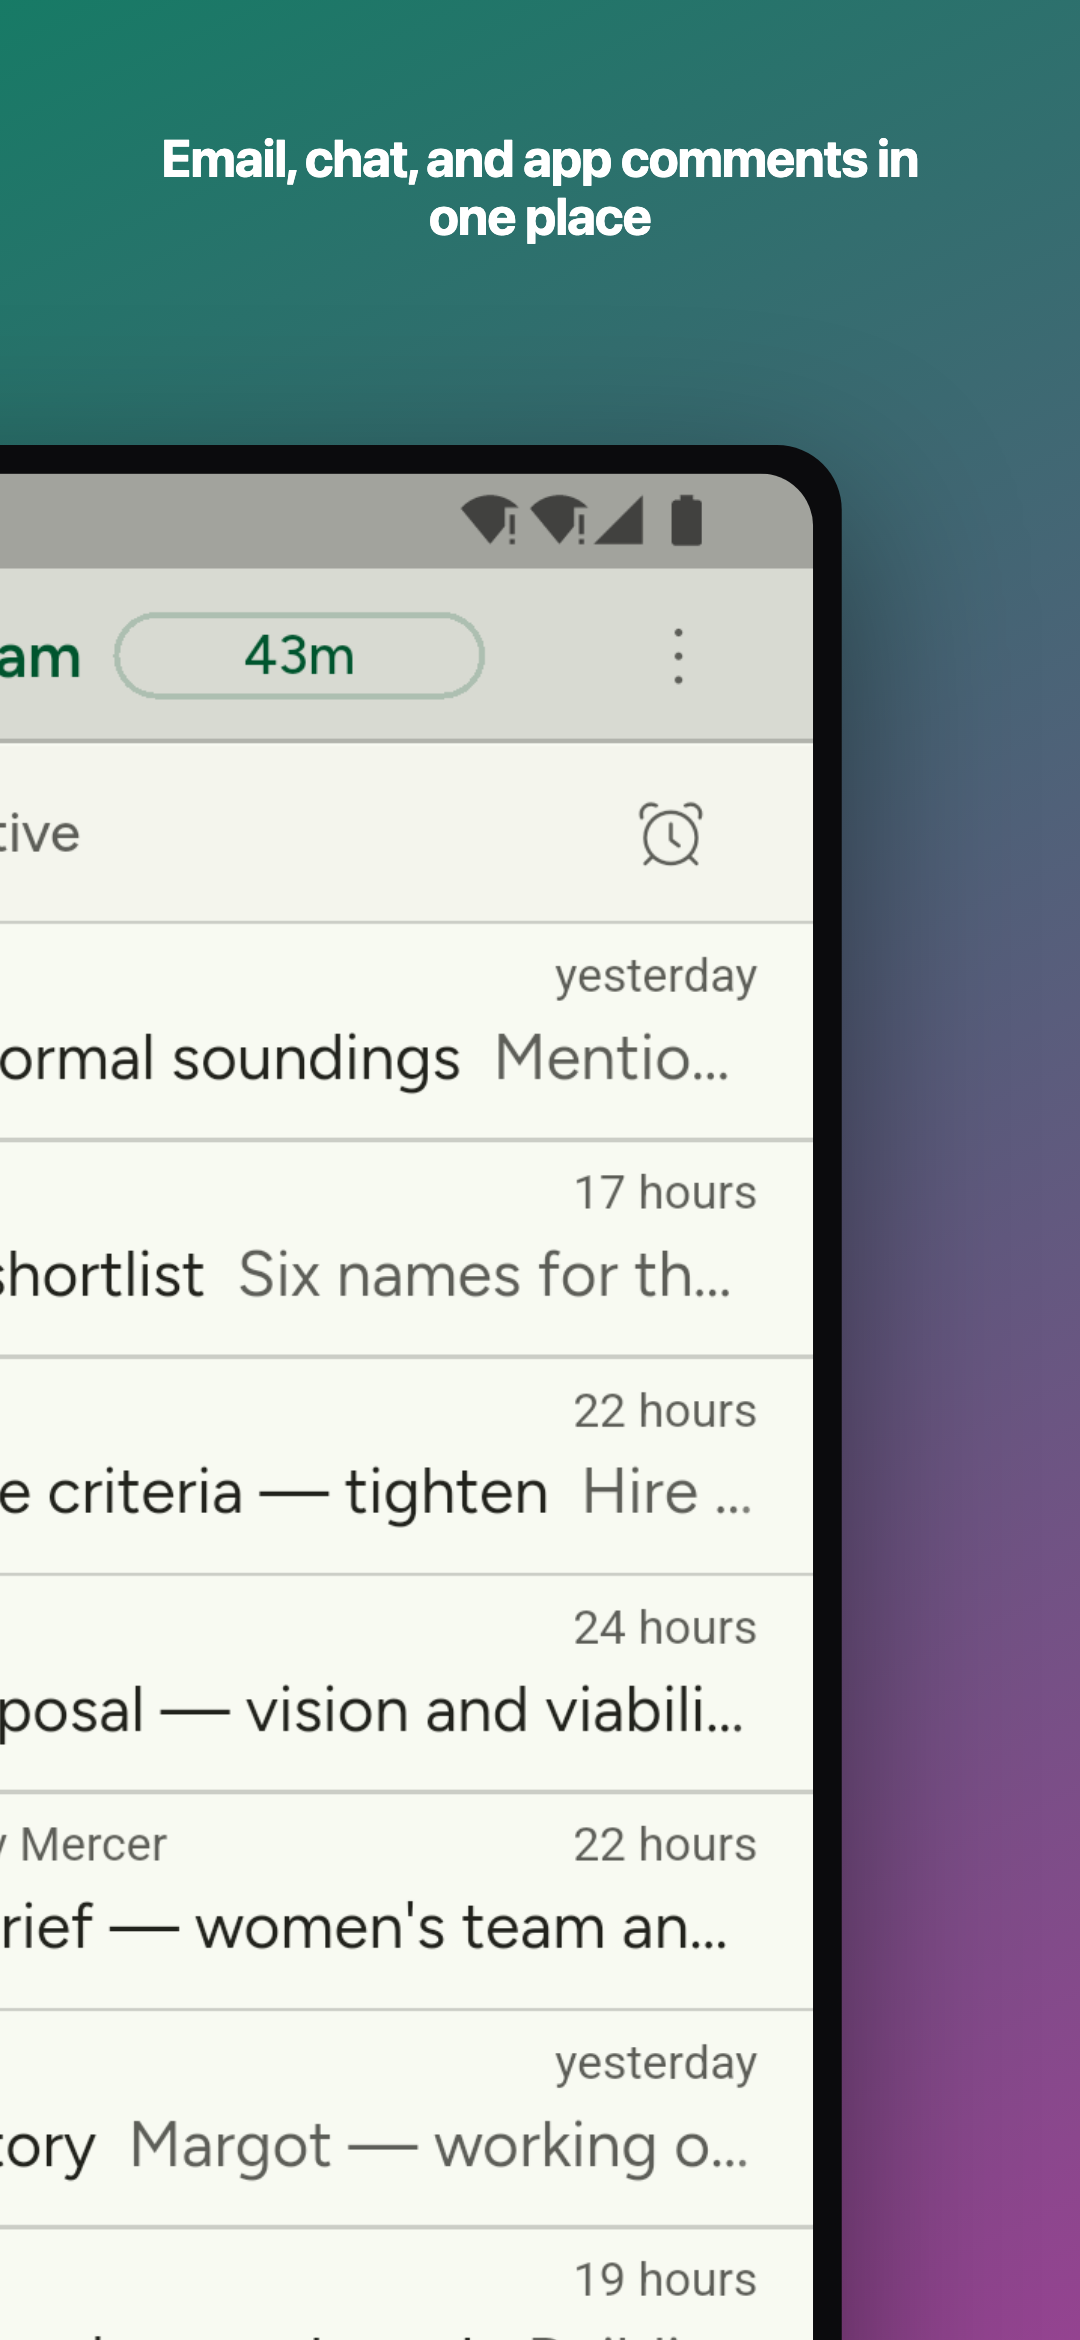
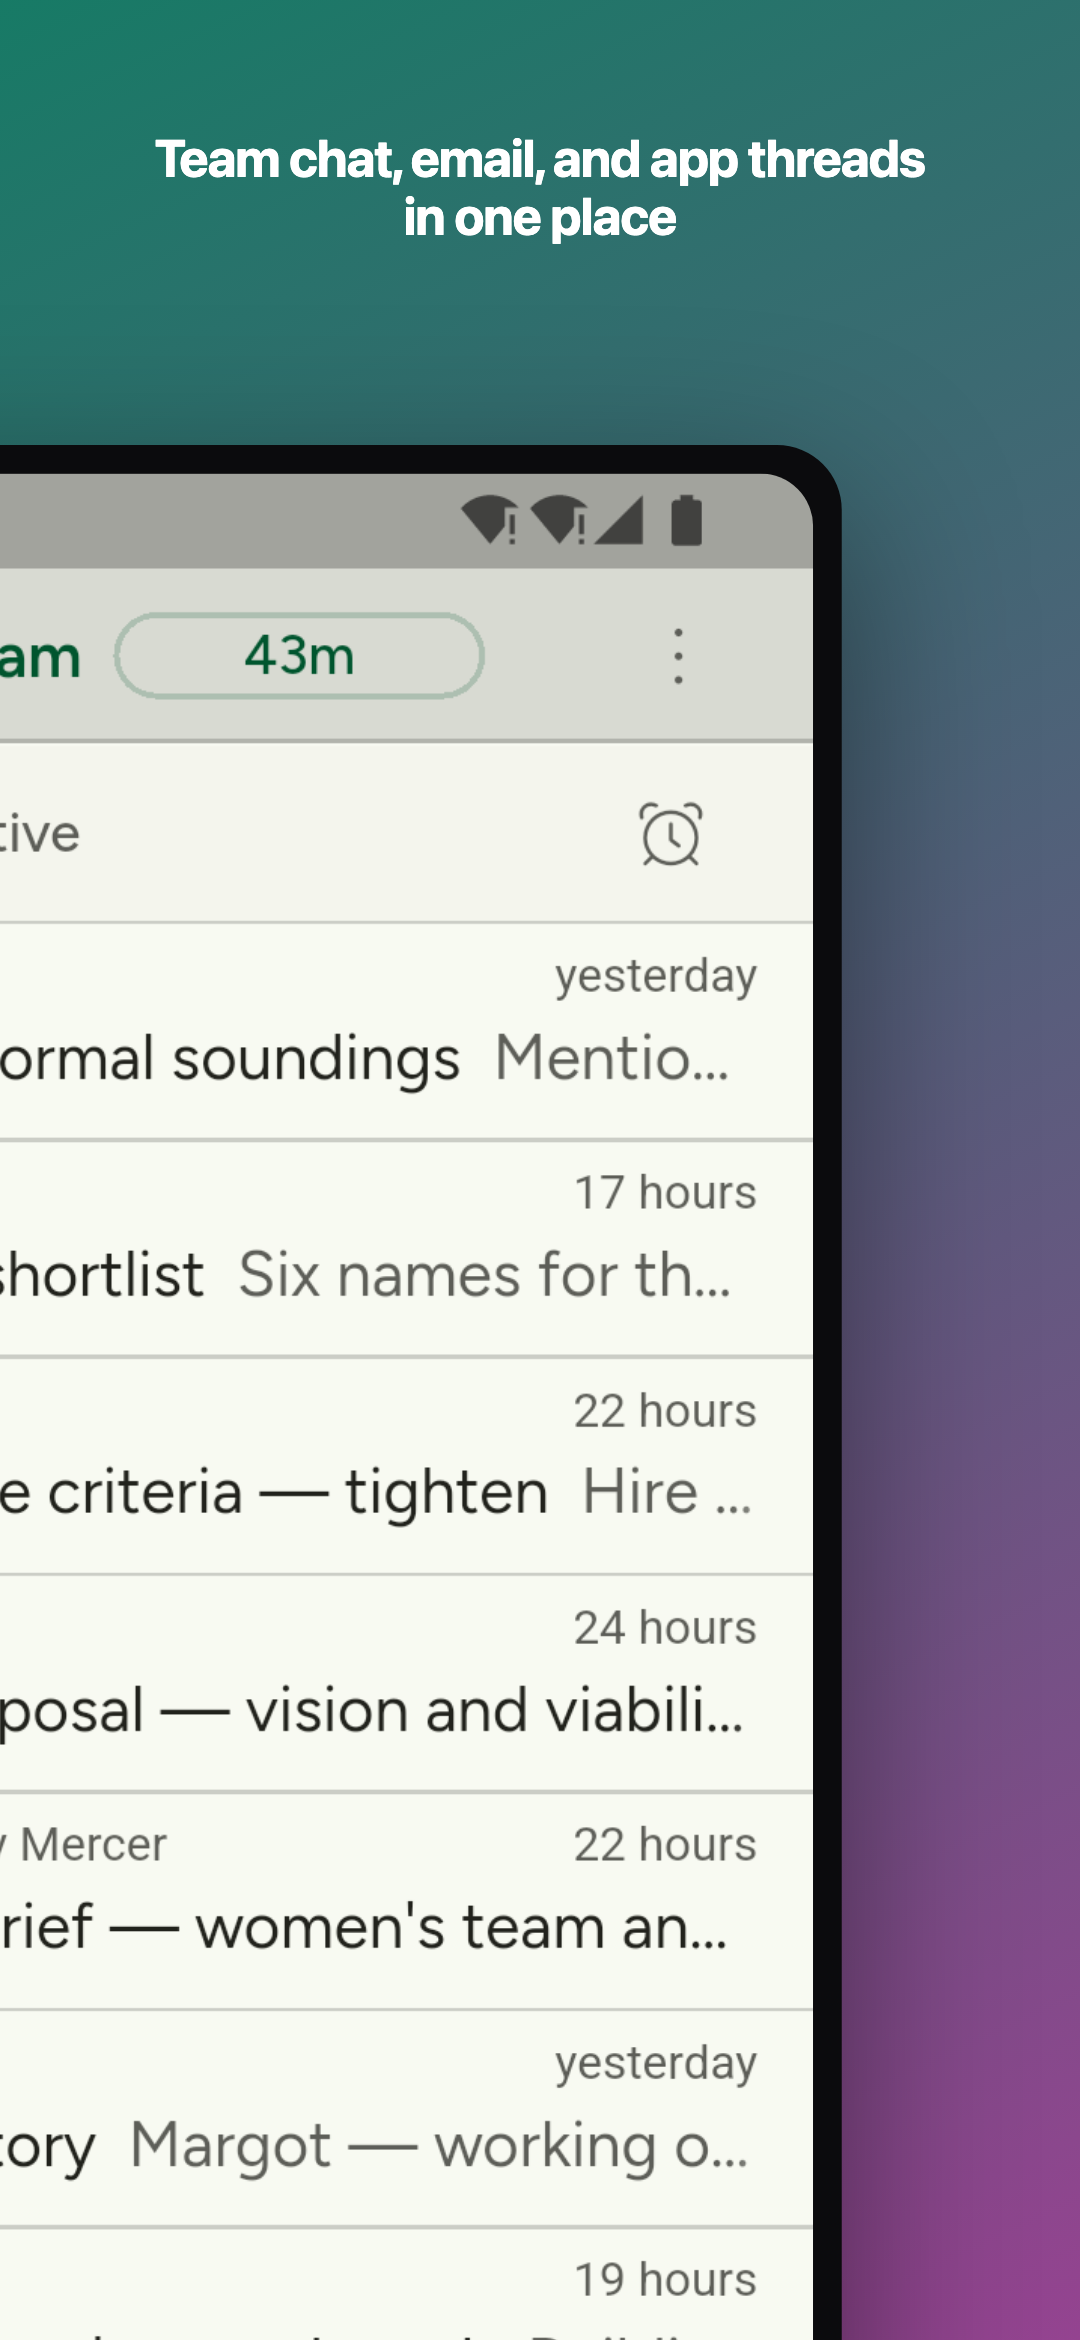
feat(screenshots): S1 subtitle -> "Team chat, email, and app threads in one place" (#314)
Switch the S1 hero subtitle (right half, 02-S1) from "Email, chat, and app
comments in one place" to the alternative phrasing. Updates manifest.ts and the
store-listings.md caption table, and re-renders the iPhone and Android phone
hero right-halves (compose-only; raws unchanged).

Changed region(s): [[0.1528, 0.0624, 0.8556, 0.1248]]

diff --git a/apps/plot/screenshots/manifest.ts b/apps/plot/screenshots/manifest.ts
@@ -24,7 +24,7 @@ export const PLANS: PlatformPlan[] = [
     slots: [
       { slots: [1, 2], scene: 'S1', mode: 'light', framing: 'phone-hero-span',
         headline: 'All your work, ready for action',
-        subhead: 'Email, chat, and app comments in one place' },
+        subhead: 'Team chat, email, and app threads in one place' },
       { slots: [3], scene: 'S2', mode: 'light', framing: 'phone',
         headline: 'Reply to anything without opening another app' },
       { slots: [4], scene: 'S3', mode: 'dark', framing: 'phone',
@@ -77,7 +77,7 @@ export const PLANS: PlatformPlan[] = [
     slots: [
       { slots: [1, 2], scene: 'S1', mode: 'light', framing: 'phone-hero-span',
         headline: 'All your work, ready for action',
-        subhead: 'Email, chat, and app comments in one place' },
+        subhead: 'Team chat, email, and app threads in one place' },
       { slots: [3], scene: 'S2', mode: 'light', framing: 'phone',
         headline: 'Reply to anything without opening another app' },
       { slots: [4], scene: 'S3', mode: 'dark', framing: 'phone',

diff --git a/docs/store-listings.md b/docs/store-listings.md
@@ -234,7 +234,7 @@ above.
 
 | Slot | Catalog | Mode | Caption | Framing |
 | --- | --- | --- | --- | --- |
-| 1–2 | **S1** | Light | **All your work, ready for action** · *Email, chat, and app comments in one place* | Angled device spanning slots 1→2 (panorama hero) |
+| 1–2 | **S1** | Light | **All your work, ready for action** · *Team chat, email, and app threads in one place* | Angled device spanning slots 1→2 (panorama hero) |
 | 3 | **S2** | Light | **Reply to anything without opening another app** | typing a reply |
 | 4 | **S3** | Dark | **Your day in context** | |
 | 5 | **S5** | Light | **Start anything from one place** | typing "Po" |
@@ -337,7 +337,7 @@ the **share-sheet** shot — sharing into Plot is a real platform-native value h
 
 | Slot | Catalog | Mode | Caption | Framing |
 | --- | --- | --- | --- | --- |
-| 1–2 | **S1** | Light | **All your work, ready for action** · *Email, chat, and app comments in one place* | Angled device spanning slots 1→2 (panorama hero) |
+| 1–2 | **S1** | Light | **All your work, ready for action** · *Team chat, email, and app threads in one place* | Angled device spanning slots 1→2 (panorama hero) |
 | 3 | **S2** | Light | **Reply to anything without opening another app** | typing a reply |
 | 4 | **S3** | Dark | **Your day in context** | |
 | 5 | **S5** | Light | **Start anything from one place** | typing "Po" |
